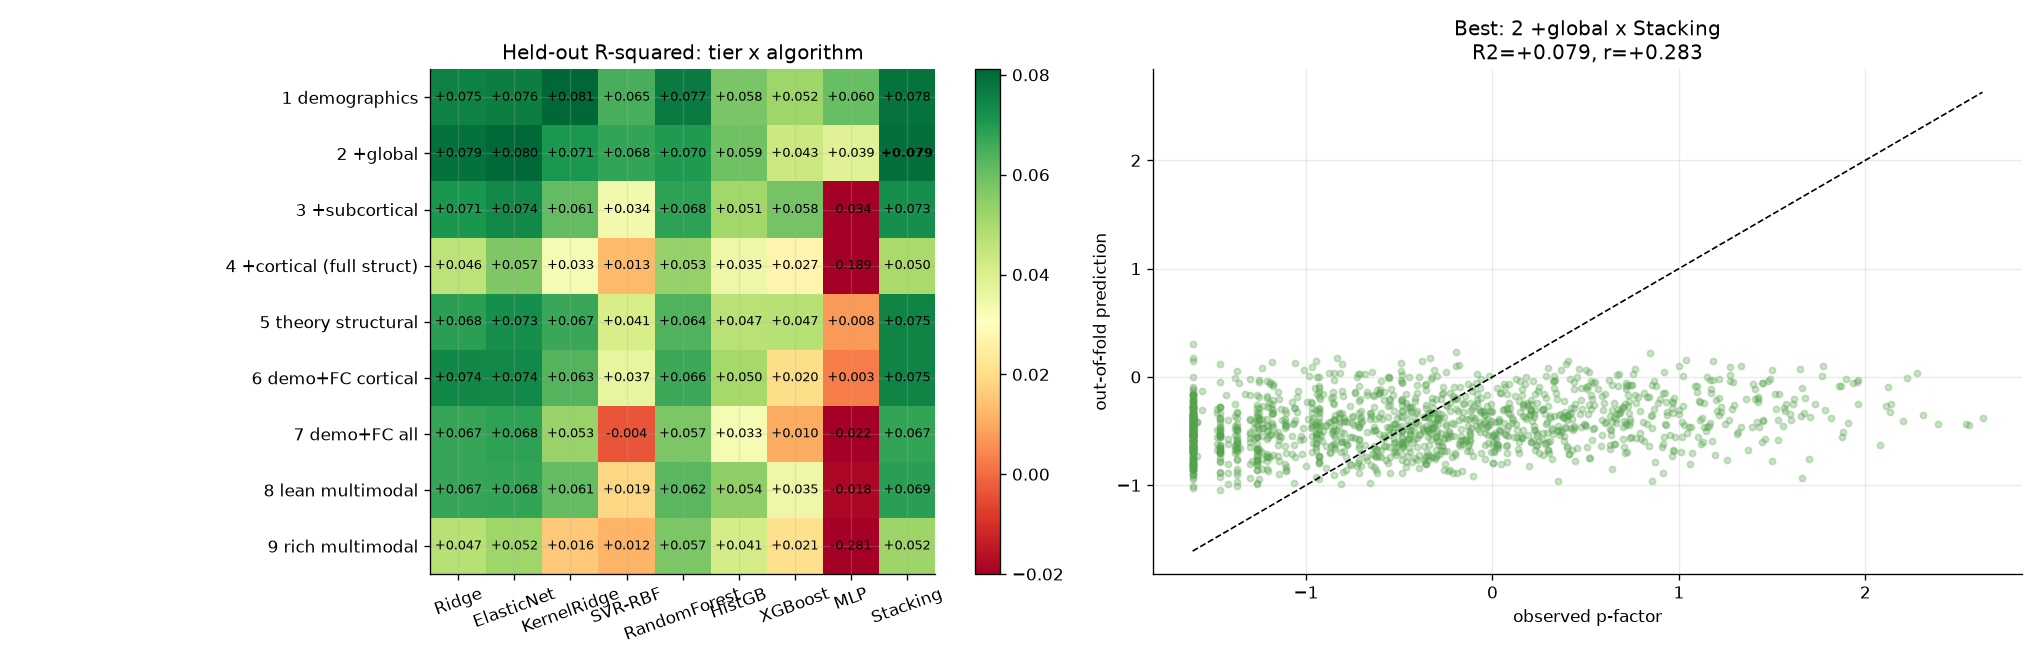
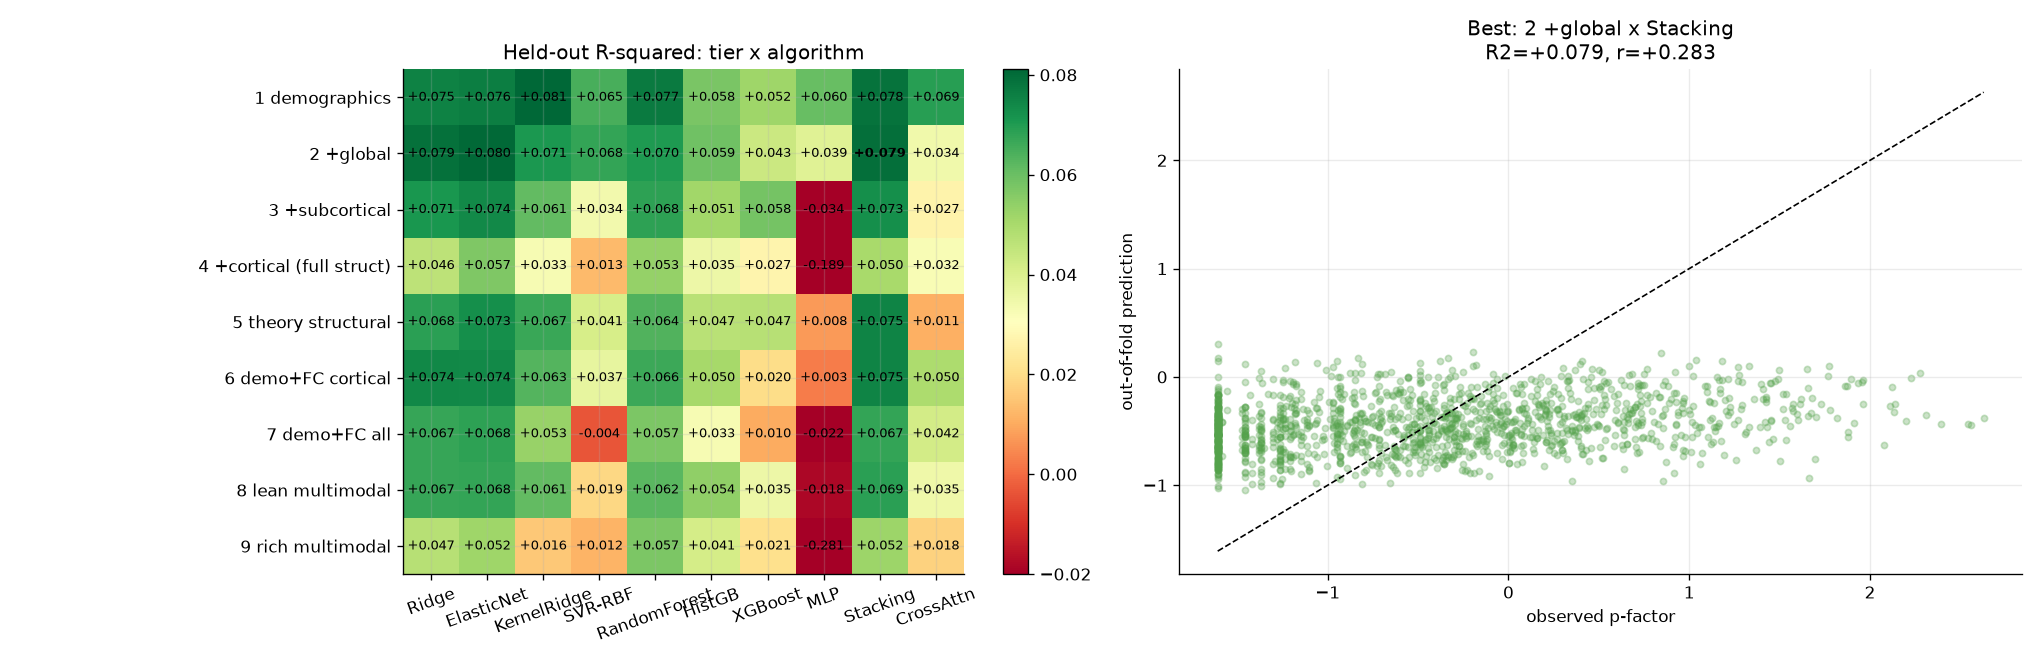
Add cross-attention transformer for multimodal fusion (10th model, GPU/MPS)
- SOTA multimodal fusion transformer (PyTorch): each modality (demographics, global, subcortical, cortical,
  functional) is encoded to a token, a transformer applies cross-modal self-attention among the modality tokens,
  a learnable fusion token cross-attends to them, and a small head predicts the p-factor (target-standardized,
  AdamW, early stopping on an internal validation split)
- Uses the Apple-Metal (MPS) or CUDA GPU when available, otherwise CPU
- Fully integrated into the nested tier x model leaderboard (now 10 algorithms) with automatic winner selection
  via the screen-then-confirm repeated cross-validation; the transformer does not beat the regularized linear
  models on this small tabular data, which the leaderboard reports honestly
- torch added to pyproject.toml and docker/requirements.txt; both READMEs updated

Best held-out R2 0.079 (r 0.283) unchanged: tier +global x Stacking. CrossAttn peaks at 0.069 on demographics
and degrades on the higher-dimensional tiers (overfitting), the expected result for deep nets on small tabular data.

diff --git a/src/jupiter_notebooks/README.md b/src/jupiter_notebooks/README.md
@@ -22,10 +22,13 @@ Docker, and on JupyterHub.
 
 ## ML algorithms compared
 
-Ridge, ElasticNet, KernelRidge (RBF), SVR (RBF), RandomForest, HistGradientBoosting, XGBoost, a small MLP, and a
-Stacking ensemble. Each self-tunes its hyperparameters by an inner cross-validation, so the outer loop is a true
-nested, held-out estimate. The grid is screened with a single shuffled 5-fold split, and the winning configuration is
-then confirmed with repeated (5x) shuffled 5-fold cross-validation.
+Ridge, ElasticNet, KernelRidge (RBF), SVR (RBF), RandomForest, HistGradientBoosting, XGBoost, a small MLP, a Stacking
+ensemble, and a **transformer with cross-attention for multimodal fusion** (PyTorch: each modality is encoded to a
+token, a transformer applies cross-modal self-attention, and a learnable fusion token cross-attends to the modalities;
+it uses the Apple-Metal or CUDA GPU when available). Each self-tunes its hyperparameters by an inner cross-validation,
+so the outer loop is a true nested, held-out estimate. The grid is screened with a single shuffled 5-fold split, and
+the winning configuration is confirmed with repeated (5x) shuffled 5-fold cross-validation. On small tabular data the
+regularized linear models match or beat the deep net, and the leaderboard shows this.
 
 ## Result (the honest ceiling)
 

diff --git a/README.md b/README.md
@@ -12,9 +12,12 @@ The whole analysis is one self-contained notebook:
 
 ## Main findings
 
-We search a grid of **9 feature tiers x 9 ML algorithms** (Ridge, ElasticNet, KernelRidge, SVR, RandomForest,
-HistGradientBoosting, XGBoost, MLP, Stacking) with leakage-free nested cross-validation: the grid is screened with a
-single shuffled 5-fold split, and the winning configuration is confirmed with repeated (5x) 5-fold cross-validation.
+We search a grid of **9 feature tiers x 10 ML algorithms** (Ridge, ElasticNet, KernelRidge, SVR, RandomForest,
+HistGradientBoosting, XGBoost, MLP, Stacking, and a **transformer with cross-attention for multimodal fusion**) with
+leakage-free nested cross-validation: the grid is screened with a single shuffled 5-fold split, and the winning
+configuration is confirmed with repeated (5x) 5-fold cross-validation. The transformer (PyTorch) uses the Apple-Metal
+or CUDA GPU when present; as expected on small tabular data it does not beat the regularized linear models, which the
+leaderboard reports honestly.
 
 - **Best configuration: demographics + global structural brain, with a regularized linear model (Ridge /
   ElasticNet) or a light stacking ensemble.** Held-out **R-squared about 0.08**, predicted-observed **r about 0.29**.